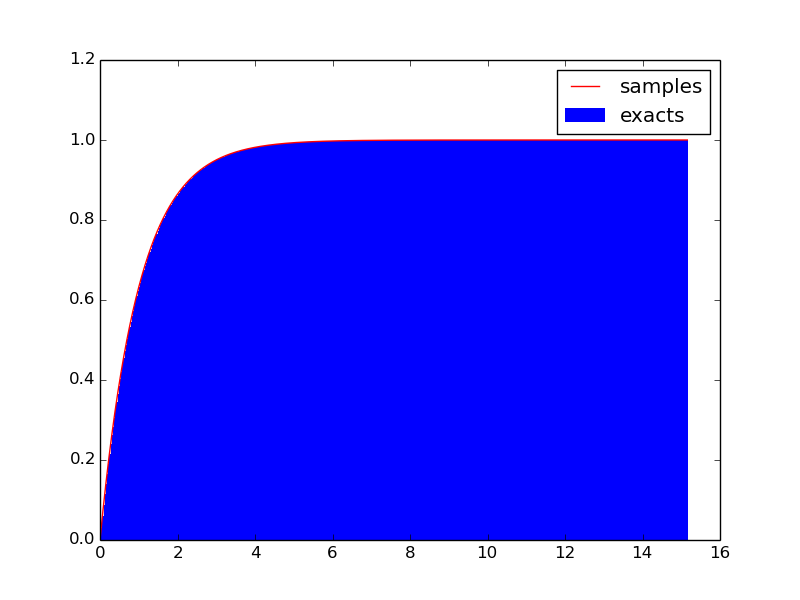
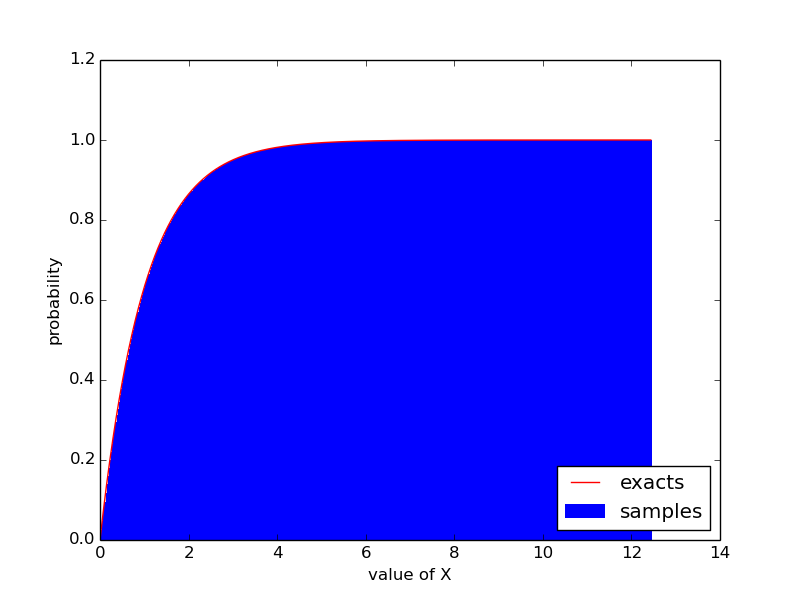
hw1 done!!!

diff --git a/hw1/hw1.tex b/hw1/hw1.tex
@@ -11,6 +11,7 @@
 \usepackage{palatino}
 %\renewcommand{\rmdefault}{palatino}
 \usepackage{fancyhdr}
+\usepackage{listings}
 %\pagestyle{fancy}
 \rhead{}
 \lhead{}
@@ -201,6 +202,16 @@ $F_X(x) = \int_{0}^{x}e^{-t}dt
 = [-e^{-t}]_{0}^{x}
 = 1 - e^{-x}$
 for $x \geq 0$, otherwise $F_X(x)=0$.
+Moreover, inverse function of $F_X(x)$ is,
+$F_X^{-1}(y) = -log(1-y)$ for $y \leq 0$. \\
+
+Now, I will attach code and image.
+
+\lstinputlisting[language=Python]{./q3-3.py}
+
+After run code using python3, image file `q3-3.png' appears.
+
+\includegraphics{./q3-3.png}
 
 %% Q4
 \section{Q4}

diff --git a/hw1/q3-3.py b/hw1/q3-3.py
@@ -26,6 +26,8 @@ X_exacts = np.arange(0, X_sample[-1], 0.001)
 Y_exacts = list(map(F, X_exacts))
 plt.plot(X_exacts, Y_exacts, label='exacts', color='red')
 
-plt.legend(['samples', 'exacts'])
+plt.legend(loc='lower right')
+plt.xlabel('value of X')
+plt.ylabel('probability')
 
 plt.savefig('q3-3.png')
